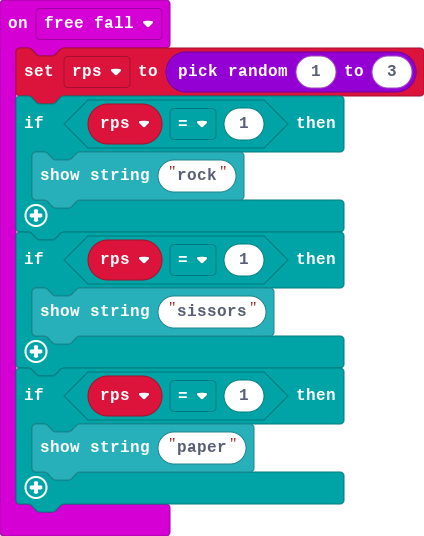
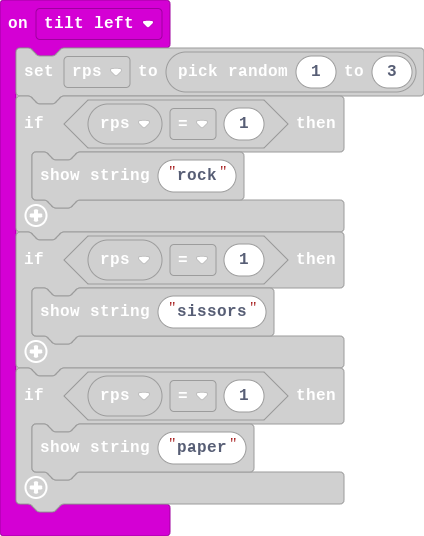
Update main.blocks, main.ts

diff --git a/main.ts b/main.ts
@@ -26,7 +26,7 @@ input.onButtonPressed(Button.A, function () {
     Rounds += 1
     scoreboard()
 })
-input.onGesture(Gesture.FreeFall, function () {
+input.onGesture(Gesture.TiltLeft, function () {
     rps = randint(1, 3)
     if (rps == 1) {
         OLED.writeStringNewLine("rock")
